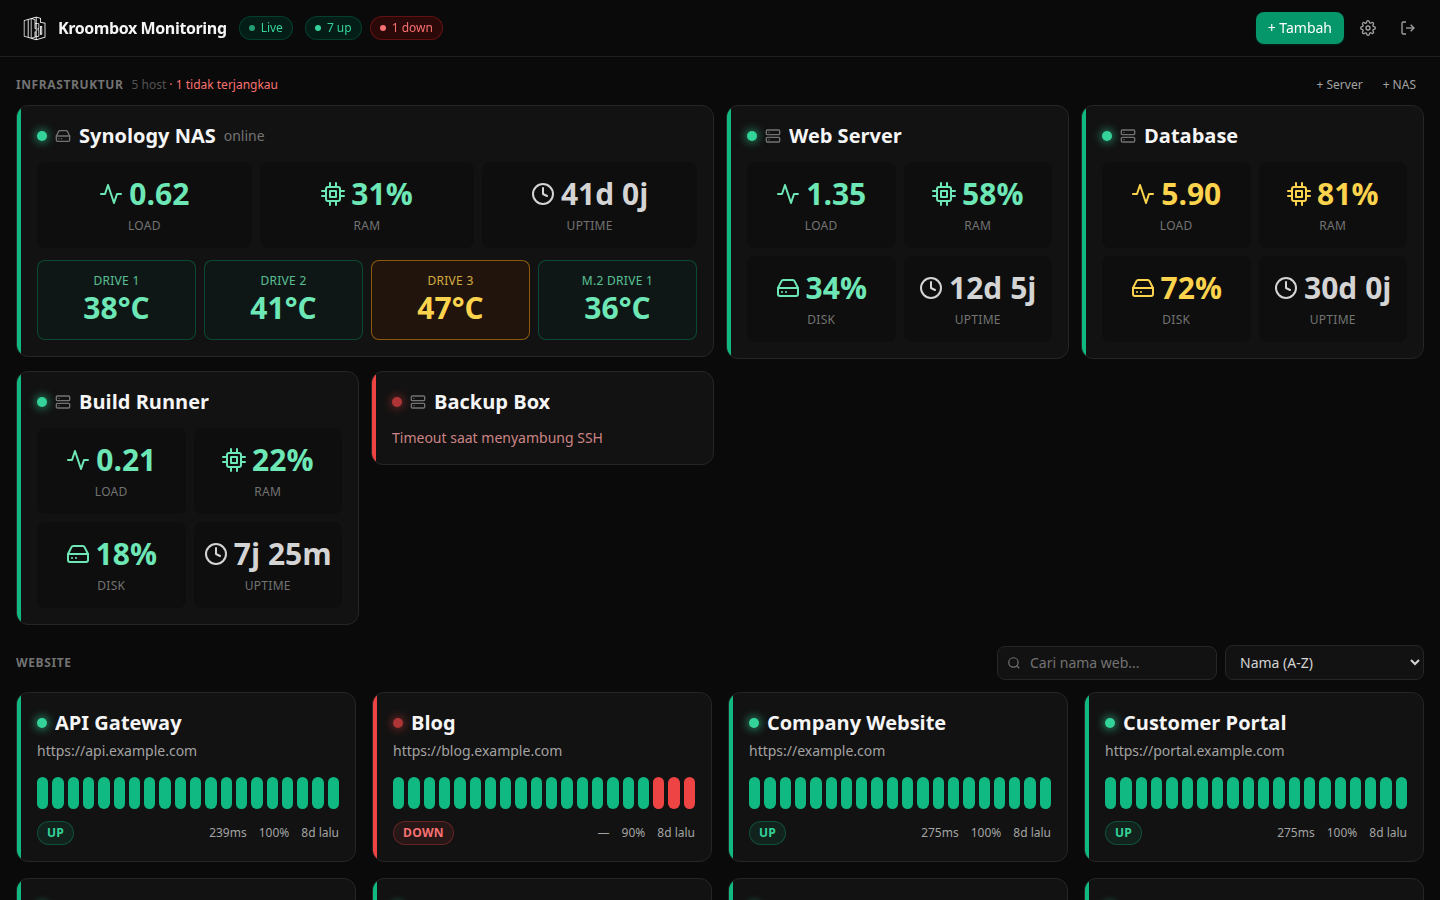
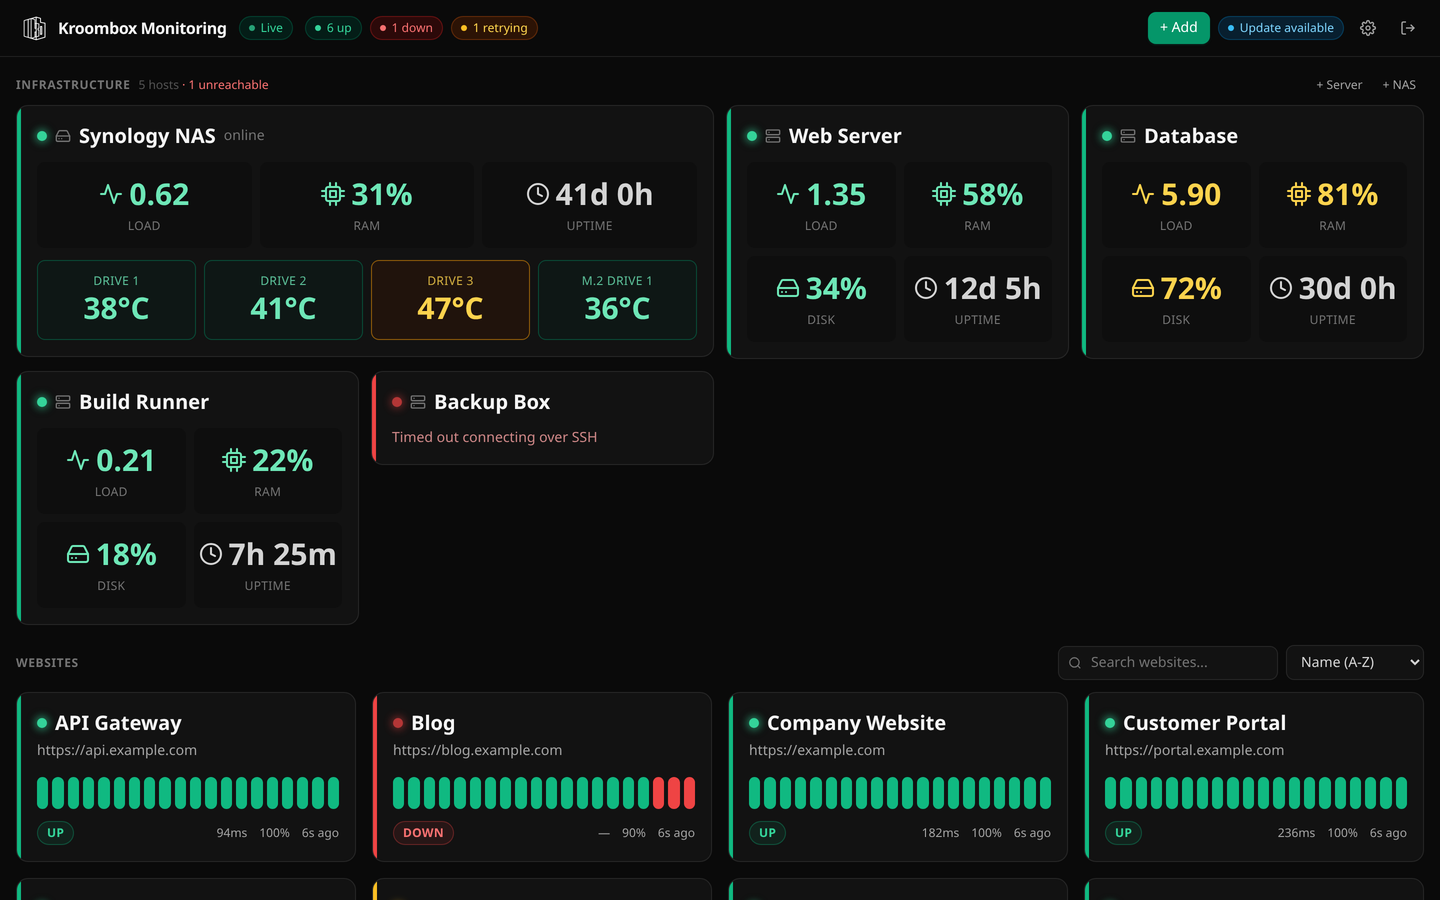
Ganti nama repo menjadi kroombox-monitoring, README dan screenshot versi Inggris

diff --git a/src/lib/scheduler.ts b/src/lib/scheduler.ts
@@ -14,7 +14,7 @@ async function checkOnce(monitor: Monitor) {
       redirect: "follow",
       cache: "no-store",
       signal: controller.signal,
-      headers: { "User-Agent": "uptime-monitor/1.0" },
+      headers: { "User-Agent": "kroombox-monitoring/1.0" },
     });
     const ms = Date.now() - start;
     store.recordCheck(monitor.id, {

diff --git a/README.md b/README.md
@@ -3,7 +3,7 @@
     <source media="(prefers-color-scheme: dark)" srcset="docs/logo-dark.png">
     <img src="docs/logo-light.png" alt="Kroombox logo" height="44" align="center">
   </picture>
-  Kroombox Monitor
+  Kroombox Monitoring
 </h1>
 
 Self-hosted, real-time monitoring dashboard for **websites**, **Linux servers** and **NAS** — one small Node.js service, no database, no agents to install on the machines you watch.
@@ -20,10 +20,11 @@ Self-hosted, real-time monitoring dashboard for **websites**, **Linux servers** 
 - **Everything is added in the UI** — any number of websites, servers and NAS; edit, pause or delete them; a *Test connection* button checks SSH/DSM before saving.
 - **Live** — the browser receives updates over a WebSocket; no polling, no page refresh.
 - **Alerts in the browser** — a sound when a website, server or NAS goes down or recovers, with quiet hours; upload your own sounds in Settings.
+- **One-click updates** — the header shows *Update available* when a new version is on GitHub; **Settings → Updates → Update now** installs it and keeps your data.
 - **Your branding** — app name and logo are set in Settings.
 - **Secure by default** — login required for everything, random first password, login rate limiting, credentials stored owner-only (`0600`) and never sent back to the browser, hardened systemd unit.
 
-The UI is in Bahasa Indonesia.
+The UI is in English.
 
 ## Requirements
 
@@ -34,8 +35,8 @@ The UI is in Bahasa Indonesia.
 ## Install (systemd)
 
 ```bash
-git clone https://github.com/andiahmadnurmadani/uptime-monitor.git
-cd uptime-monitor
+git clone https://github.com/andiahmadnurmadani/kroombox-monitoring.git
+cd kroombox-monitoring
 sudo ./scripts/install.sh
 ```
 

diff --git a/README.id.md b/README.id.md
@@ -3,7 +3,7 @@
     <source media="(prefers-color-scheme: dark)" srcset="docs/logo-dark.png">
     <img src="docs/logo-light.png" alt="Kroombox logo" height="44" align="center">
   </picture>
-  Kroombox Monitor
+  Kroombox Monitoring
 </h1>
 
 Dashboard monitoring real-time yang di-host sendiri untuk **website**, **server Linux**, dan **NAS**: cukup satu layanan Node.js kecil, tanpa database, dan tanpa agen yang harus dipasang di mesin yang dipantau.
@@ -20,6 +20,7 @@ Dashboard monitoring real-time yang di-host sendiri untuk **website**, **server 
 - **Semua diatur dari UI**: tambah website, server, dan NAS sebanyak apa pun; edit, jeda, atau hapus. Tombol *Test connection* mengecek SSH/DSM sebelum disimpan.
 - **Live**: browser menerima pembaruan lewat WebSocket, tanpa polling dan tanpa refresh halaman.
 - **Notifikasi suara di browser** saat website, server, atau NAS down atau pulih, dengan jam senyap. Suaranya bisa diganti sendiri lewat Settings.
+- **Update sekali klik**: header menampilkan *Update available* saat ada versi baru di GitHub; **Settings → Updates → Update now** memasangnya tanpa menghapus data.
 - **Branding sendiri**: nama aplikasi dan logo diatur di Settings.
 - **Aman sejak awal**:
   - semua halaman wajib login;
@@ -38,8 +39,8 @@ Dashboard monitoring real-time yang di-host sendiri untuk **website**, **server 
 ## Pemasangan (systemd)
 
 ```bash
-git clone https://github.com/andiahmadnurmadani/uptime-monitor.git
-cd uptime-monitor
+git clone https://github.com/andiahmadnurmadani/kroombox-monitoring.git
+cd kroombox-monitoring
 sudo ./scripts/install.sh
 ```
 

diff --git a/CONTRIBUTING.md b/CONTRIBUTING.md
@@ -5,8 +5,8 @@ Thanks for helping! Issues and pull requests are welcome in English or Bahasa In
 ## Setup
 
 ```bash
-git clone https://github.com/andiahmadnurmadani/uptime-monitor.git
-cd uptime-monitor
+git clone https://github.com/andiahmadnurmadani/kroombox-monitoring.git
+cd kroombox-monitoring
 npm install
 cp .env.example .env.local   # optional
 npm run dev                  # http://localhost:3400
